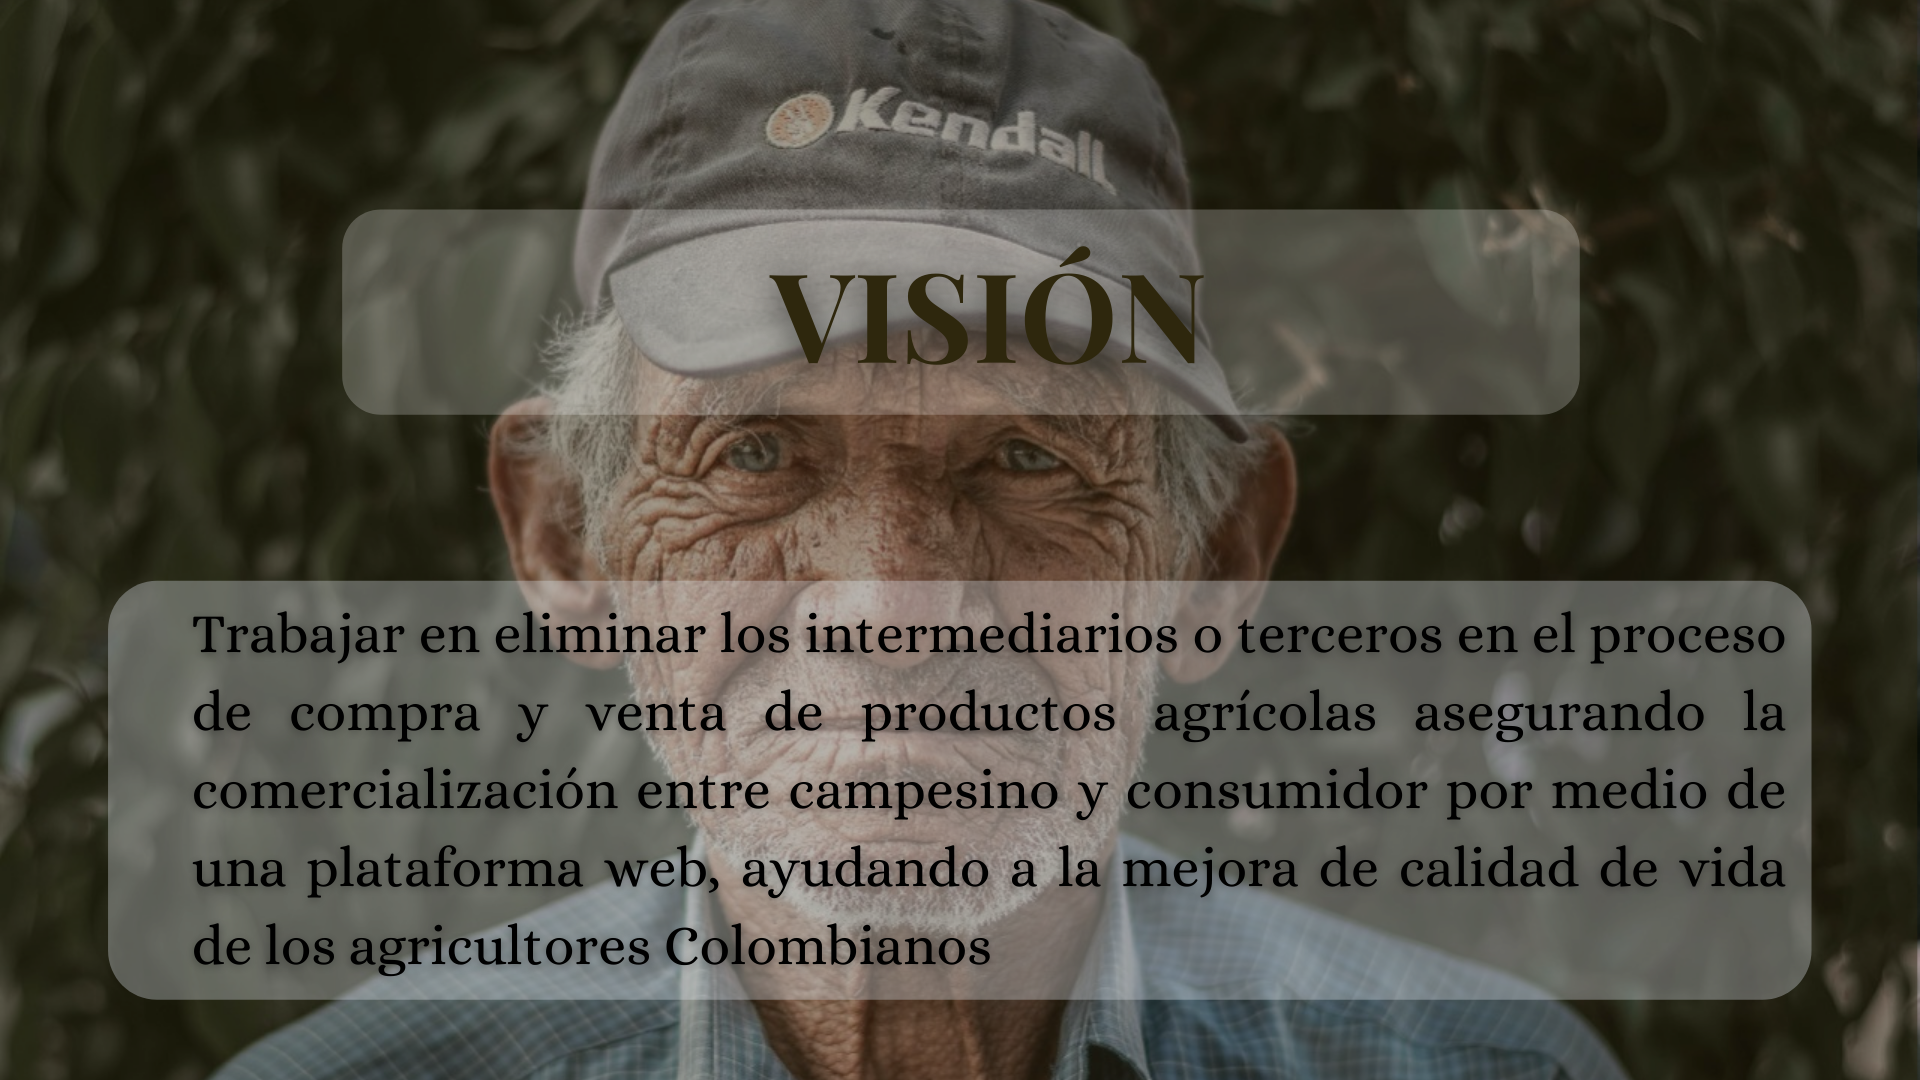
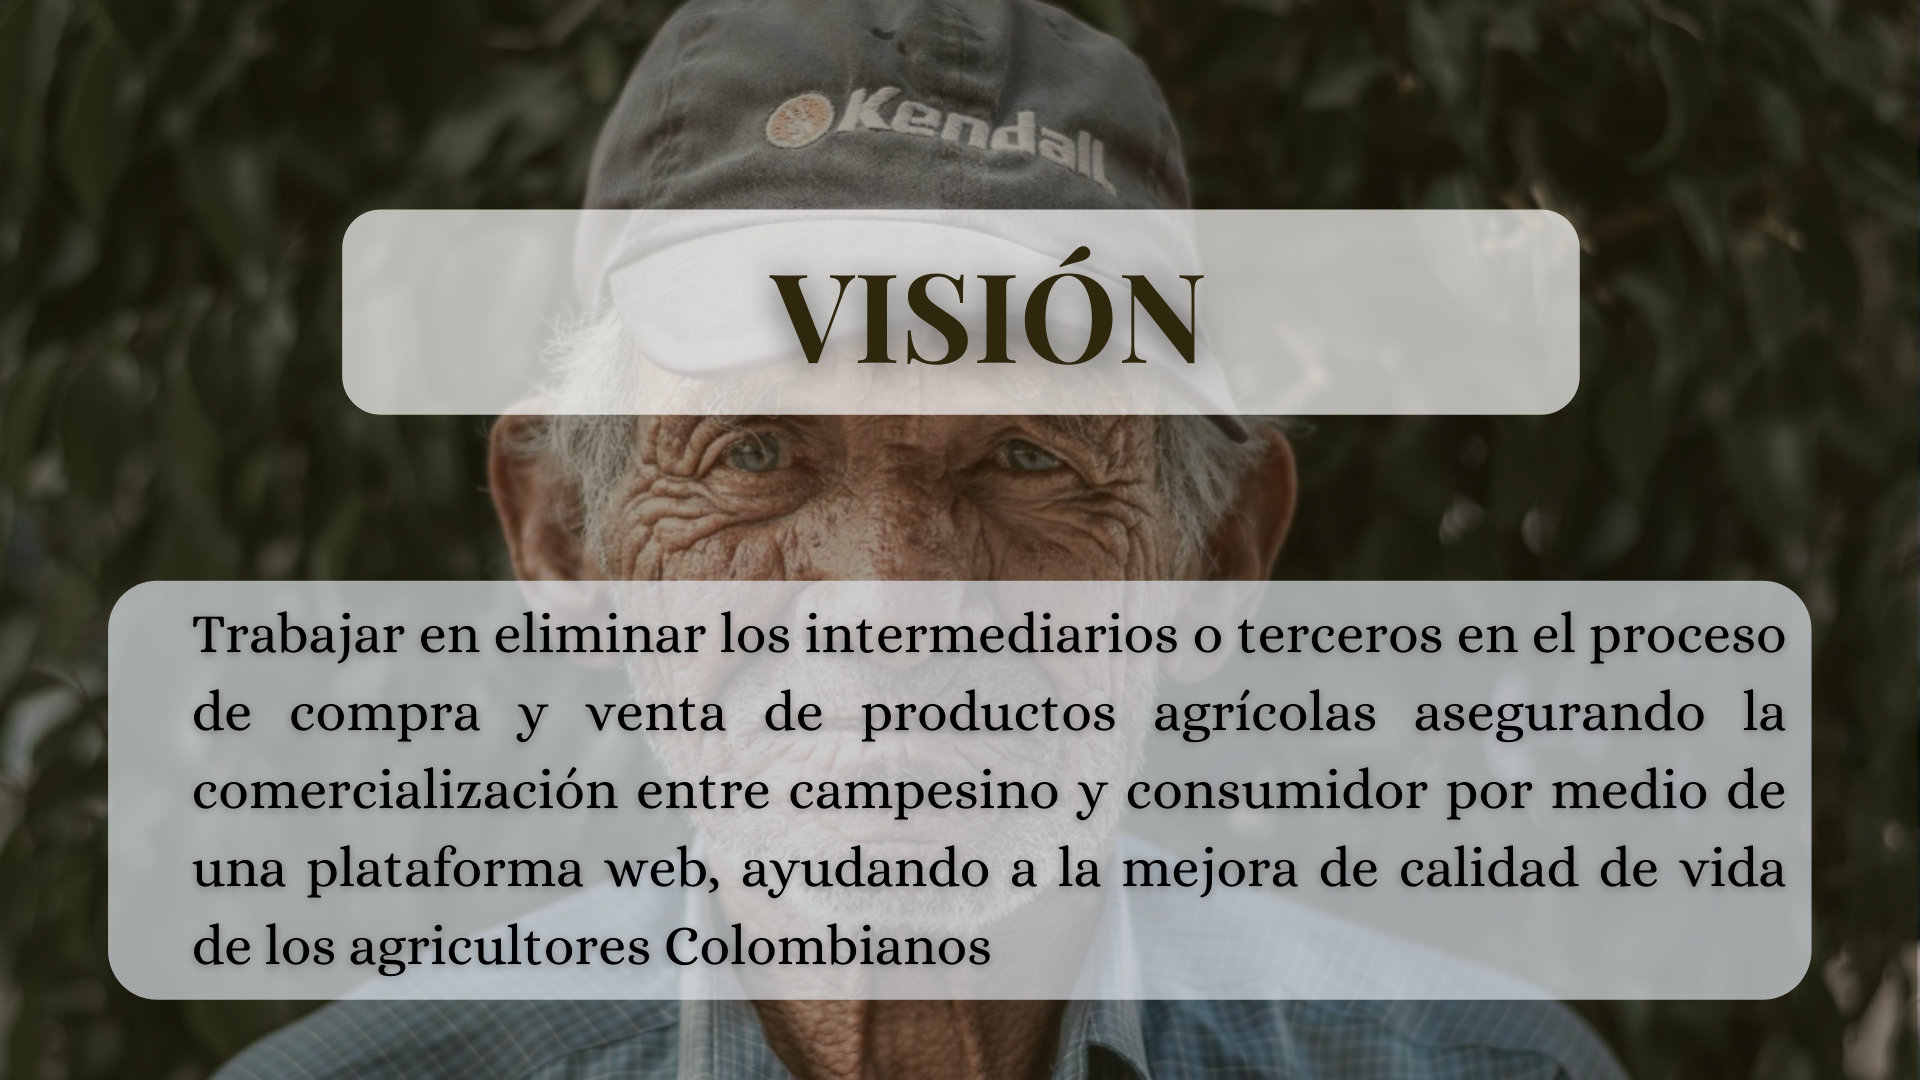
Hice cambios en el colores de las imágenes

diff --git a/index.html b/index.html
@@ -63,7 +63,7 @@
               <div class="carousel-item">
                 <img src="./utils/images/Home/Carrusel/4.png" class="d-flex w-100" alt="visión">
               </div>
-            </div>
+            </div>s
             <button class="carousel-control-prev" type="button" data-bs-target="#carouselExampleControls" data-bs-slide="prev">
               <span class="carousel-control-prev-icon" aria-hidden="true"></span>
               <span class="visually-hidden">Previous</span>
@@ -73,9 +73,6 @@
               <span class="visually-hidden">Next</span>
             </button>
           </div>
-            
-        
-
         </div>
         <!--FIN CONTENEDOR QUIENES SOMOS----------------------------------------------------------------------------------->
 

diff --git a/src/css/EstilosQuienesS/Quienes_somos_styles.css b/src/css/EstilosQuienesS/Quienes_somos_styles.css
@@ -2,7 +2,7 @@
 #QuienesSomos{
     height: 100%;
     background-color: #041C0D;
-    padding: 5% 0 5% 0;
+    padding: 5% 5% 5% 5%;
 }
 
 
